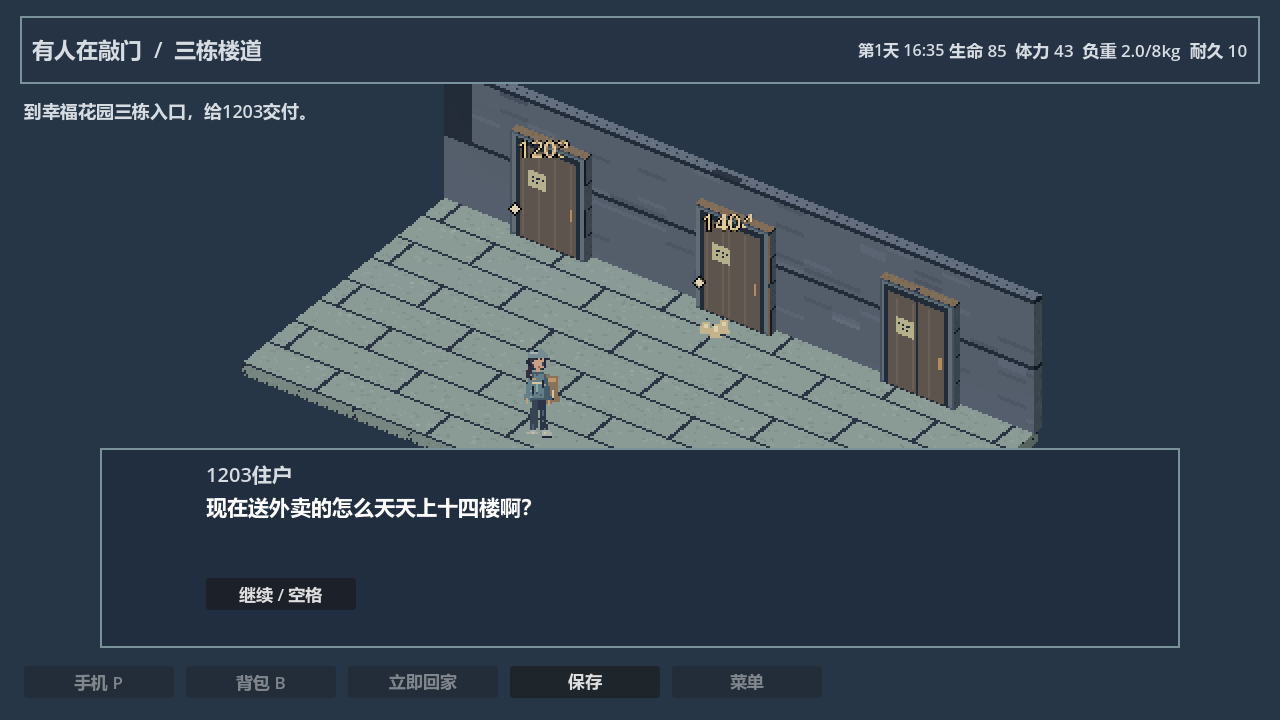
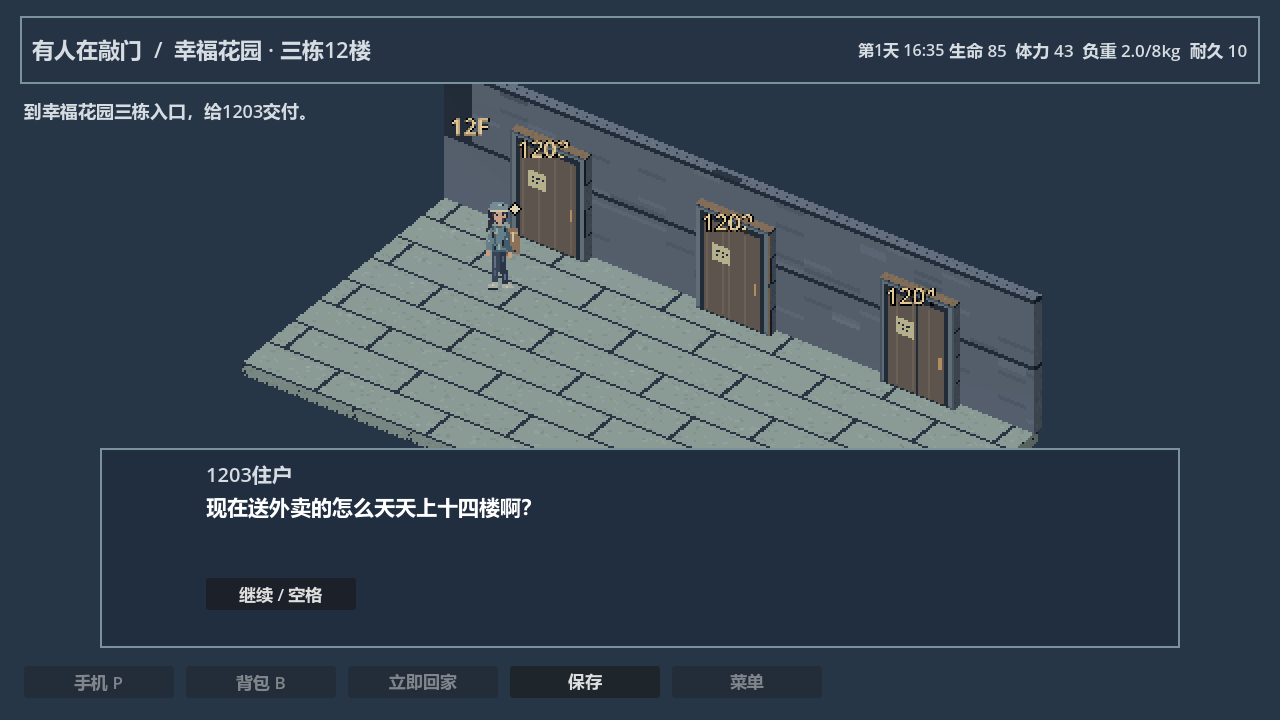
fix: auto-deliver chat notifications and separate chapter apartment floors

diff --git a/docs/CH01_BUGFIX_REPORT.md b/docs/CH01_BUGFIX_REPORT.md
@@ -35,3 +35,38 @@
 - 修改scripts/ch01_director.gd、ch01_play.gd、ch01_map.gd；新增ch01_opening_test.gd及Godot UID。未覆盖原整合包和用户存档。
 - 实测opening.log 13 PASS/0失败；连续物理步行主线walk.log 216 PASS/0失败。实际查看opening_fixed.png：目标、送餐处、修车与入口文字可见，无明显遮挡。
 - 限制：未读取或诊断用户实际卡住的存档；未宣称所有旧异常存档自动修复。当前修复覆盖复现到的开场状态/提示与越级入口问题。
+
+## 2026-11-05 消息自动推送与12/14楼分离修复
+- 消息达到时间/剧情条件后自动启动逐条演出，不再等待逐个打开联系人；手机打开时保留新消息横幅，点击切换到对应会话。新挂载通知控件补显尚未展示的通知，保留已展示标记。
+- 新增hallway12.tscn；12楼仅1201—1203，14楼仅1403—1405。三栋入口只进楼，1203门口才结算；选择调查后从楼梯交互进入14楼，1404门口触发剧情，跳过调查仍直接进入下行事件。
+- 旧1203存档的hallway位置迁移到hallway12。补测发现读档后原配送位置未同步会导致交付失败，已在门口交付时适配。可中途回家再入楼，楼层位置分别保存。
+- 实际Godot4.7.2 Windows图形运行：message_floor_fix_test 20、messaging_core_test 24、messaging_ui_test 8、ch01_qa_test 228、ch01_alternate_qa 210 PASS；最终日志均无FAIL/ERROR/WARNING。合计490次断言含截图，不等于490个功能。首次受限运行缓存目录报错，后续允许写入测试目录后重新运行通过。
+- 真实截图artifacts/digital_systems/10_private_push.png、11_floor12.png、12_floor14.png已输入模型视觉检查：手机旁横幅可见，中文正常，两层门牌独立，目标指引匹配。楼梯仍为交互入口，未制作可逐级行走的楼梯美术；楼道沿用现有简化美术。macOS未验证。
+- F5主场景；群聊到达后等待推送，手机内也可点击其他联系人横幅；三栋入楼后到1203按E，选择调查后到楼梯标记按E，再到1404按E。用户体验验收待确认。
+
+本次修改/新增（无删除）：
+- `CHANGELOG.md`
+- `DEV_LOG.md`
+- `ROADMAP.md`
+- `artifacts/ch01_qa/03_hallway.png`
+- `artifacts/ch01_qa/08_home.png`
+- `artifacts/digital_systems/10_private_push.png`
+- `artifacts/digital_systems/11_floor12.png`
+- `artifacts/digital_systems/12_floor14.png`
+- `artifacts/digital_systems/ch01_alternate_qa.log`
+- `artifacts/digital_systems/ch01_qa_test.log`
+- `artifacts/digital_systems/message_floor_fix_test.log`
+- `data/ch01_story.json`
+- `docs/CH01_BUGFIX_REPORT.md`
+- `docs/DEVELOPMENT_LOG.md`
+- `docs/DIGITAL_SYSTEMS_TEST_REPORT.md`
+- `docs/MESSAGING_SYSTEM_SPEC.md`
+- `scenes/ch01_maps/hallway12.tscn`
+- `scripts/ch01_director.gd`
+- `scripts/ch01_map.gd`
+- `scripts/ch01_play.gd`
+- `scripts/ch01_qa_test.gd`
+- `scripts/message_floor_fix_test.gd`
+- `scripts/message_manager.gd`
+- `ui/message_panel.gd`
+- `ui/notification_toast.gd`

diff --git a/DEV_LOG.md b/DEV_LOG.md
@@ -268,3 +268,11 @@ before.zip保存改前版本；verified.zip和verified_manifest.json保存当前
 - Windows Godot 4.7.2 实际运行 15 个测试脚本：898 PASS、0 FAIL/ERROR/WARNING（计数包含重复断言与截图保存，不是898项独立功能）。详细日志见 artifacts/digital_systems/test_summary.json。
 - 新的9张专用运行截图已作为图像实际检查；既有回归截图同步重新生成，未将其全部视为本轮逐张美术验收。
 - 限制：macOS、真人完整盲玩、主观音效试听与长时性能未验收；本次不宣称第一章正式美术或完整游戏完成。等待用户试玩确认，不进入新阶段。
+
+## 2026-11-05 消息自动推送与12/14楼分离修复
+- 消息达到时间/剧情条件后自动启动逐条演出，不再等待逐个打开联系人；手机打开时保留新消息横幅，点击切换到对应会话。新挂载通知控件补显尚未展示的通知，保留已展示标记。
+- 新增hallway12.tscn；12楼仅1201—1203，14楼仅1403—1405。三栋入口只进楼，1203门口才结算；选择调查后从楼梯交互进入14楼，1404门口触发剧情，跳过调查仍直接进入下行事件。
+- 旧1203存档的hallway位置迁移到hallway12。补测发现读档后原配送位置未同步会导致交付失败，已在门口交付时适配。可中途回家再入楼，楼层位置分别保存。
+- 实际Godot4.7.2 Windows图形运行：message_floor_fix_test 20、messaging_core_test 24、messaging_ui_test 8、ch01_qa_test 228、ch01_alternate_qa 210 PASS；最终日志均无FAIL/ERROR/WARNING。合计490次断言含截图，不等于490个功能。首次受限运行缓存目录报错，后续允许写入测试目录后重新运行通过。
+- 真实截图artifacts/digital_systems/10_private_push.png、11_floor12.png、12_floor14.png已输入模型视觉检查：手机旁横幅可见，中文正常，两层门牌独立，目标指引匹配。楼梯仍为交互入口，未制作可逐级行走的楼梯美术；楼道沿用现有简化美术。macOS未验证。
+- F5主场景；群聊到达后等待推送，手机内也可点击其他联系人横幅；三栋入楼后到1203按E，选择调查后到楼梯标记按E，再到1404按E。用户体验验收待确认。

diff --git a/CHANGELOG.md b/CHANGELOG.md
@@ -191,3 +191,11 @@
 - Windows Godot 4.7.2 实际运行 15 个测试脚本：898 PASS、0 FAIL/ERROR/WARNING（计数包含重复断言与截图保存，不是898项独立功能）。详细日志见 artifacts/digital_systems/test_summary.json。
 - 新的9张专用运行截图已作为图像实际检查；既有回归截图同步重新生成，未将其全部视为本轮逐张美术验收。
 - 限制：macOS、真人完整盲玩、主观音效试听与长时性能未验收；本次不宣称第一章正式美术或完整游戏完成。等待用户试玩确认，不进入新阶段。
+
+## 2026-11-05 消息自动推送与12/14楼分离修复
+- 消息达到时间/剧情条件后自动启动逐条演出，不再等待逐个打开联系人；手机打开时保留新消息横幅，点击切换到对应会话。新挂载通知控件补显尚未展示的通知，保留已展示标记。
+- 新增hallway12.tscn；12楼仅1201—1203，14楼仅1403—1405。三栋入口只进楼，1203门口才结算；选择调查后从楼梯交互进入14楼，1404门口触发剧情，跳过调查仍直接进入下行事件。
+- 旧1203存档的hallway位置迁移到hallway12。补测发现读档后原配送位置未同步会导致交付失败，已在门口交付时适配。可中途回家再入楼，楼层位置分别保存。
+- 实际Godot4.7.2 Windows图形运行：message_floor_fix_test 20、messaging_core_test 24、messaging_ui_test 8、ch01_qa_test 228、ch01_alternate_qa 210 PASS；最终日志均无FAIL/ERROR/WARNING。合计490次断言含截图，不等于490个功能。首次受限运行缓存目录报错，后续允许写入测试目录后重新运行通过。
+- 真实截图artifacts/digital_systems/10_private_push.png、11_floor12.png、12_floor14.png已输入模型视觉检查：手机旁横幅可见，中文正常，两层门牌独立，目标指引匹配。楼梯仍为交互入口，未制作可逐级行走的楼梯美术；楼道沿用现有简化美术。macOS未验证。
+- F5主场景；群聊到达后等待推送，手机内也可点击其他联系人横幅；三栋入楼后到1203按E，选择调查后到楼梯标记按E，再到1404按E。用户体验验收待确认。

diff --git a/docs/DEVELOPMENT_LOG.md b/docs/DEVELOPMENT_LOG.md
@@ -50,3 +50,11 @@
 - Windows Godot 4.7.2 实际运行 15 个测试脚本：898 PASS、0 FAIL/ERROR/WARNING（计数包含重复断言与截图保存，不是898项独立功能）。详细日志见 artifacts/digital_systems/test_summary.json。
 - 新的9张专用运行截图已作为图像实际检查；既有回归截图同步重新生成，未将其全部视为本轮逐张美术验收。
 - 限制：macOS、真人完整盲玩、主观音效试听与长时性能未验收；本次不宣称第一章正式美术或完整游戏完成。等待用户试玩确认，不进入新阶段。
+
+## 2026-11-05 消息自动推送与12/14楼分离修复
+- 消息达到时间/剧情条件后自动启动逐条演出，不再等待逐个打开联系人；手机打开时保留新消息横幅，点击切换到对应会话。新挂载通知控件补显尚未展示的通知，保留已展示标记。
+- 新增hallway12.tscn；12楼仅1201—1203，14楼仅1403—1405。三栋入口只进楼，1203门口才结算；选择调查后从楼梯交互进入14楼，1404门口触发剧情，跳过调查仍直接进入下行事件。
+- 旧1203存档的hallway位置迁移到hallway12。补测发现读档后原配送位置未同步会导致交付失败，已在门口交付时适配。可中途回家再入楼，楼层位置分别保存。
+- 实际Godot4.7.2 Windows图形运行：message_floor_fix_test 20、messaging_core_test 24、messaging_ui_test 8、ch01_qa_test 228、ch01_alternate_qa 210 PASS；最终日志均无FAIL/ERROR/WARNING。合计490次断言含截图，不等于490个功能。首次受限运行缓存目录报错，后续允许写入测试目录后重新运行通过。
+- 真实截图artifacts/digital_systems/10_private_push.png、11_floor12.png、12_floor14.png已输入模型视觉检查：手机旁横幅可见，中文正常，两层门牌独立，目标指引匹配。楼梯仍为交互入口，未制作可逐级行走的楼梯美术；楼道沿用现有简化美术。macOS未验证。
+- F5主场景；群聊到达后等待推送，手机内也可点击其他联系人横幅；三栋入楼后到1203按E，选择调查后到楼梯标记按E，再到1404按E。用户体验验收待确认。

diff --git a/docs/MESSAGING_SYSTEM_SPEC.md b/docs/MESSAGING_SYSTEM_SPEC.md
@@ -6,7 +6,7 @@
 - current_minute：游戏绝对分钟，D0 23:47=1427，D1 22:17=2777。由Chapter/WorldData适配层提供，不由UI计时推进。
 - _process(delta)/tick_presentation：只消耗秒级演出剩余时间，不修改current_minute。窗口关闭后Autoload继续运行已开始的线程。
 - records按稳定id存储；包含thread_id、sender_id、text、sent_at、arrive_at、ordinal、requires、delivered/revealed/read、delay_seconds、choices、attachments。
-- 送达资格与演出可见性分离。查询UI仅返回delivered且revealed；未开始线程提示“收到新消息”，不提前展示未来台词或消息总数。
+- 送达资格与演出可见性分离。查询UI仅返回delivered且revealed；达到送达条件的线程自动开始逐条演出，不需要先打开联系人；未来台词仍不可见。
 - 联系人/线程/台词配置data/messaging.json；头像使用现有原创本地资源。玩家可选回复在该消息位置阻塞演出，选择一次后继续NPC消息。
 
 ## 公共接口
@@ -34,3 +34,5 @@ Phase1—8已完成本轮技术集成验收，详见DIGITAL_SYSTEMS_TEST_REPORT.
 - save_data含schema、profile、current_minute、serial、记录、新闻、通知、电话、started、remaining、choices；valid_data先验证全部字段，失败不污染现场。Chapter快照限chapter，旧夜间限legacy。
 - 旧私人聊天存档未记录预设回复时，保留原午餐选择对话，不擅自推断玩家拒绝。未知旧历史进入recovered线程。
 - 公共接口所有权：本轮Codex单一写入；后续Agent先阅读本规格与接口合同，禁止同时改共享文件。
+
+2026-11-05：process_due自动启动已送达线程，begin_thread幂等；UI只选择展示对象，不控制是否送达。通知可保存presented标记，新控件补显未展示通知。
